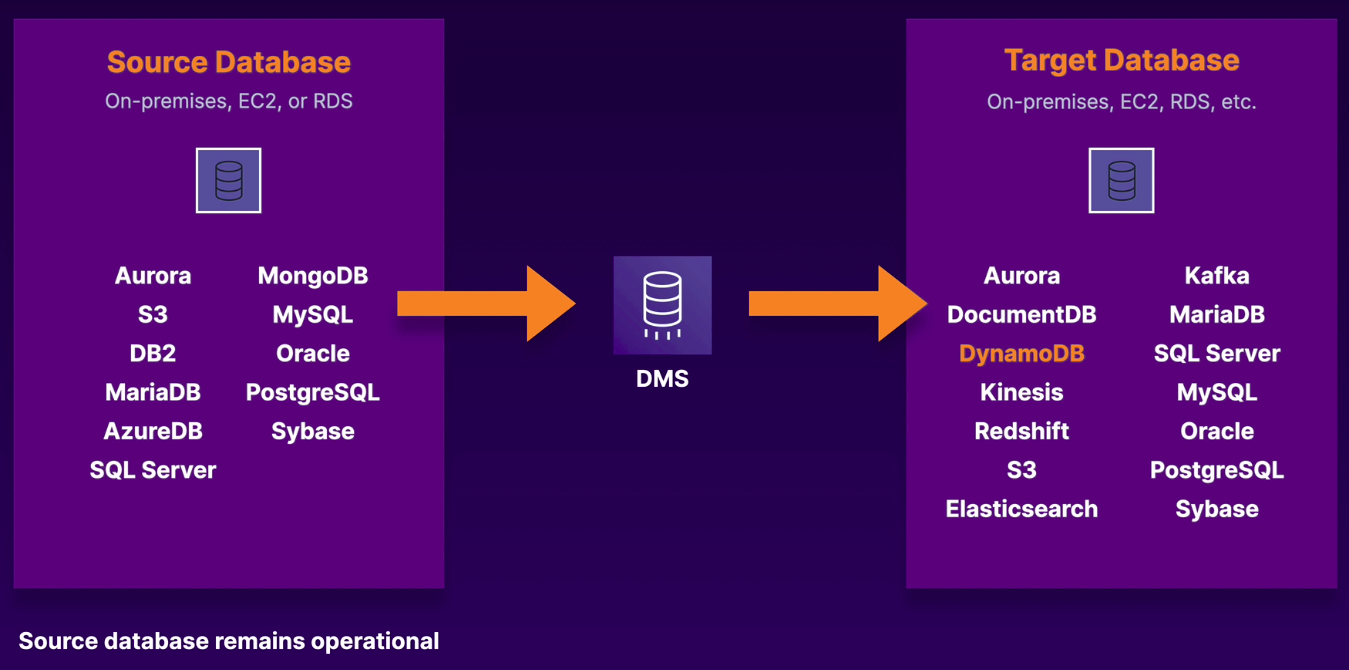
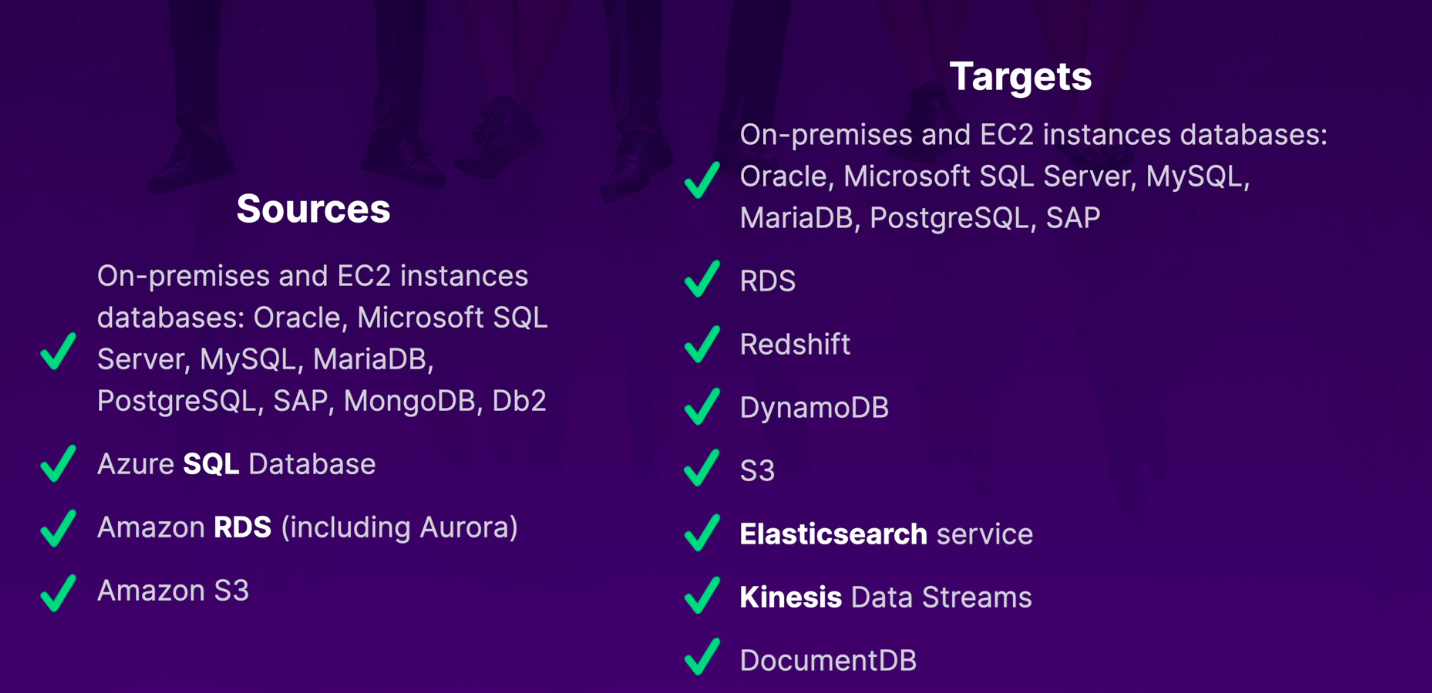
Update ACSA

diff --git a/acsa.md b/acsa.md
@@ -1141,7 +1141,21 @@ Encryption at rest is supported for MySQL, Oracle, SQL Server, PostgreSQL, Maria
 
 - **Database Migration Service (DMS)**
 
+  - DMS allows you to **migrate databases** from one source to AWS.
+
+  - You can do **homogeneous** migrations (same DB engines) or **heterogeneous** migrations.
+
+  - The source can either be on-premises, or inside AWS itself or another cloud provider such as Azure.
+
+  - If you do a heterogeneous migration, you will need the **AWS Schema Conversion Tool** (SCT). 
+
 <p align="center"><img src="images/aws-dms.png" width="600px"></p>
+
+<p align="center"><img src="images/aws-sct.png" width="600px"></p>
+
+
+
+
 
 - **Security**
 
